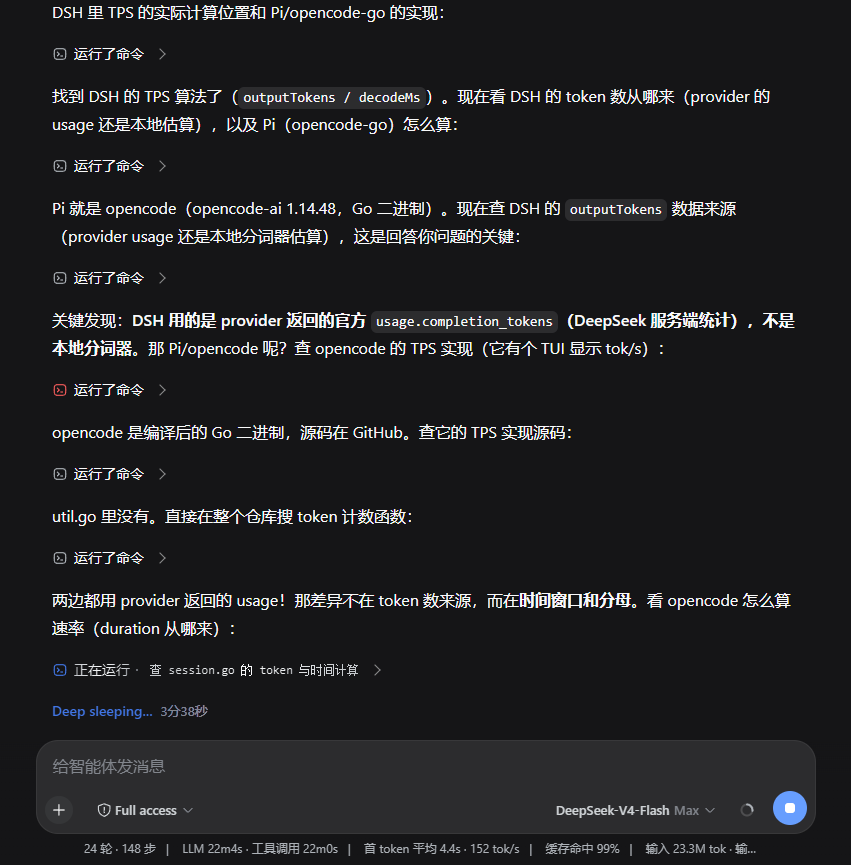
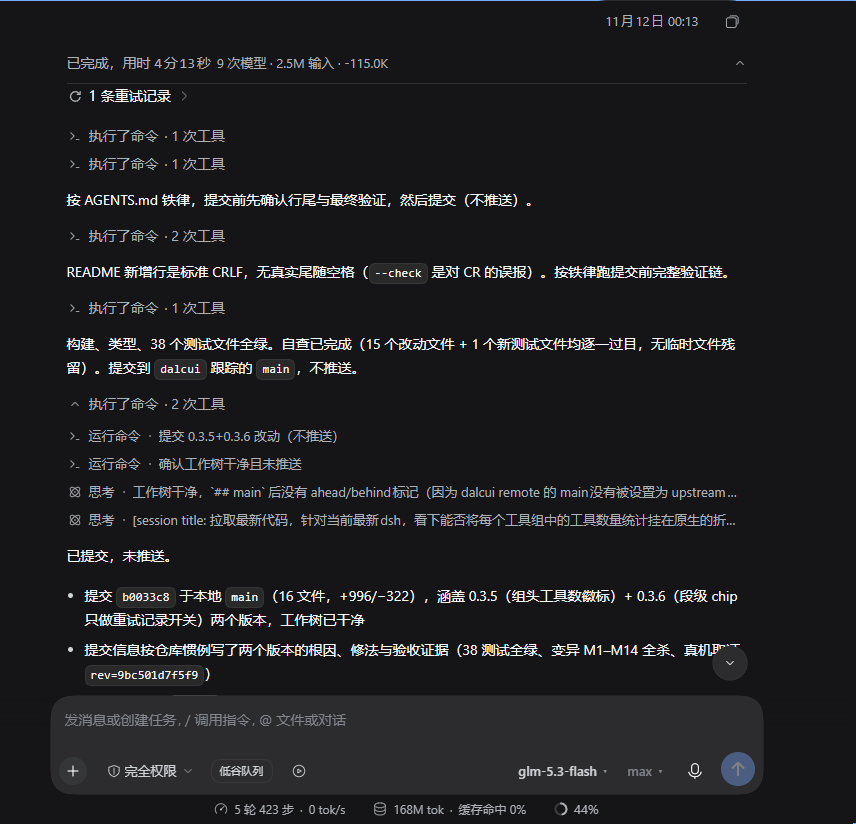
docs(readme): 安装源改为当前仓库 Dalcui + 更新真机效果截图（0.3.9）
- README.md / README.en.md：安装段推荐
  `dsh plugin --profile web add "github:Dalcui/dsh-auto-collapse#main"`，并补充
  固定 commit / tag 的写法；npm 行降级为「发布版本可能落后于本仓库」提示
  （npm 上 dsh-auto-collapse 仍为 0.2.1）。旧示例指向的 a179-sanae 已非本仓库。
- assets/screenshot.png：替换为 0.3.8 部署环境的真机截图（856×824）。画面展示
  原生回合指标行、`1 条重试记录` 段级 chip、多个 `执行了命令 · N 次工具` 组折叠
  行、Think 行与正文；截图前隐藏输入框中的账户金额文本。
- 版本 0.3.8 → 0.3.9（package.json + lockfile 两处）；docs/changelog.md 顶部
  追加本节；AGENTS.md 版本速查同步。
- 验收：node build.mjs 四项守卫通过、npx tsc --noEmit 零错误、
  node test/run-all.mjs 38 个测试文件全部通过（无代码行为变更）。

diff --git a/docs/changelog.md b/docs/changelog.md
@@ -5,6 +5,23 @@
 
 ---
 
+### 0.3.9 — 2026-11-14 · README 安装方式改为当前仓库（Dalcui）并更新效果预览截图
+
+- **背景**：README 的安装示例仍指向旧仓库 `a179-sanae/dsh-auto-collapse`，且把 npm 包列为「推荐」；
+  npm 上的 `dsh-auto-collapse` 发布版本停留在 0.2.1，落后于本仓库，照着装拿不到 0.3.x 的适配与修复。
+  本仓库唯一 remote 为 `Dalcui/dsh-auto-collapse`，安装源必须与之对应。
+- **修法（纯文档 / 资源，无代码行为变更）**：
+  - `README.md` / `README.en.md`：安装段改为推荐 GitHub 源
+    `dsh plugin --profile web add "github:Dalcui/dsh-auto-collapse#main"`，并补充固定 commit / tag 的写法；
+    npm 行降级为提示「发布版本可能落后于本仓库，需要最新版请用 GitHub 源」。
+  - `assets/screenshot.png`：替换为 **0.3.8 部署环境下的真机截图**（856×824）。画面取自本仓库
+    「工具组计数与折叠控制优化」会话，展示原生回合指标行、`1 条重试记录` 段级 chip、多个
+    `执行了命令 · N 次工具` 组折叠行、Think 行与正文；截图前隐藏输入框中的账户金额文本。
+- **验收**：
+  - 无代码行为变更 ⇒ 不适用变异实测；`node build.mjs` 四项守卫通过、`npx tsc --noEmit` 零错误、
+    `node test/run-all.mjs` 38 个测试文件全部通过。
+  - 截图取自运行中的 DSH Web（0.3.8 部署字节，`deploy.mjs --verify` 通过），非示意 / 合成图。
+
 ### 0.3.8 — 2026-11-14 · 修 passive 回合被插件强行展开工具组（插话 / 中断回合「不可折叠」）
 
 - **用户报告**：被插话发送 / 中断（aborted）的回合里，**正文之间的工具调用记录不可折叠**。

diff --git a/README.en.md b/README.en.md
@@ -39,11 +39,13 @@ Full semantics (counting rules, edge behaviors, settings) in [docs/features.en.m
 ## Install
 
 ```bash
-# Published npm package (recommended)
-dsh plugin --profile web add "dsh-auto-collapse"
-# Or from GitHub (follows main)
-dsh plugin --profile web add "github:a179-sanae/dsh-auto-collapse#main"
+# Recommended: install from this repository (follows main, includes the latest fixes)
+dsh plugin --profile web add "github:Dalcui/dsh-auto-collapse#main"
+# Pin a reproducible build to a specific commit / tag
+dsh plugin --profile web add "github:Dalcui/dsh-auto-collapse#<commit>"
 ```
+
+> A package named `dsh-auto-collapse` also exists on npm, but its published version may lag behind this repository. Use the GitHub source above for the latest fixes.
 
 Restart the DSH web service (or trigger plugin HMR), then hard-refresh the page (`Ctrl+Shift+R`). No configuration needed.
 

diff --git a/README.md b/README.md
@@ -46,11 +46,13 @@
 ## 安装
 
 ```bash
-# 已发布 npm 包（推荐，使用构建好的版本）
-dsh plugin --profile web add "dsh-auto-collapse"
-# 或从 GitHub 安装（开发版或需要跟随 `main` 分支时）
-dsh plugin --profile web add "github:a179-sanae/dsh-auto-collapse#main"
+# 推荐：从本仓库安装（跟随 main，包含最新修复）
+dsh plugin --profile web add "github:Dalcui/dsh-auto-collapse#main"
+# 需要可复现的构建时固定到具体 commit / tag
+dsh plugin --profile web add "github:Dalcui/dsh-auto-collapse#<commit>"
 ```
+
+> npm 上也有同名包 `dsh-auto-collapse`，但其发布版本可能落后于本仓库；需要最新版本时请用上面的 GitHub 源。
 
 安装后重启 DSH web 服务（或触发插件 HMR），页面 `Ctrl+Shift+R` 硬刷新即可生效。无需任何配置。
 

diff --git a/AGENTS.md b/AGENTS.md
@@ -51,6 +51,7 @@
 
 ## 3. 版本速查（一行版，详情见 docs/changelog.md）
 
+- **0.3.9** README 安装源改为 Dalcui、更新真机效果截图（纯文档 / 资源）
 - **0.3.8** 修 passive 回合被插件强行展开工具组：撤退只撤 chip/一级行，组折叠态交还宿主
 - **0.3.7** 文档渐进披露重构：AGENTS/README 薄入口 + docs/ 细节拆分（本版，无代码行为变更）
 - 0.3.6 段级 chip 只做重试记录开关，不再代表工具组；组徽标文案改「N 次工具」
